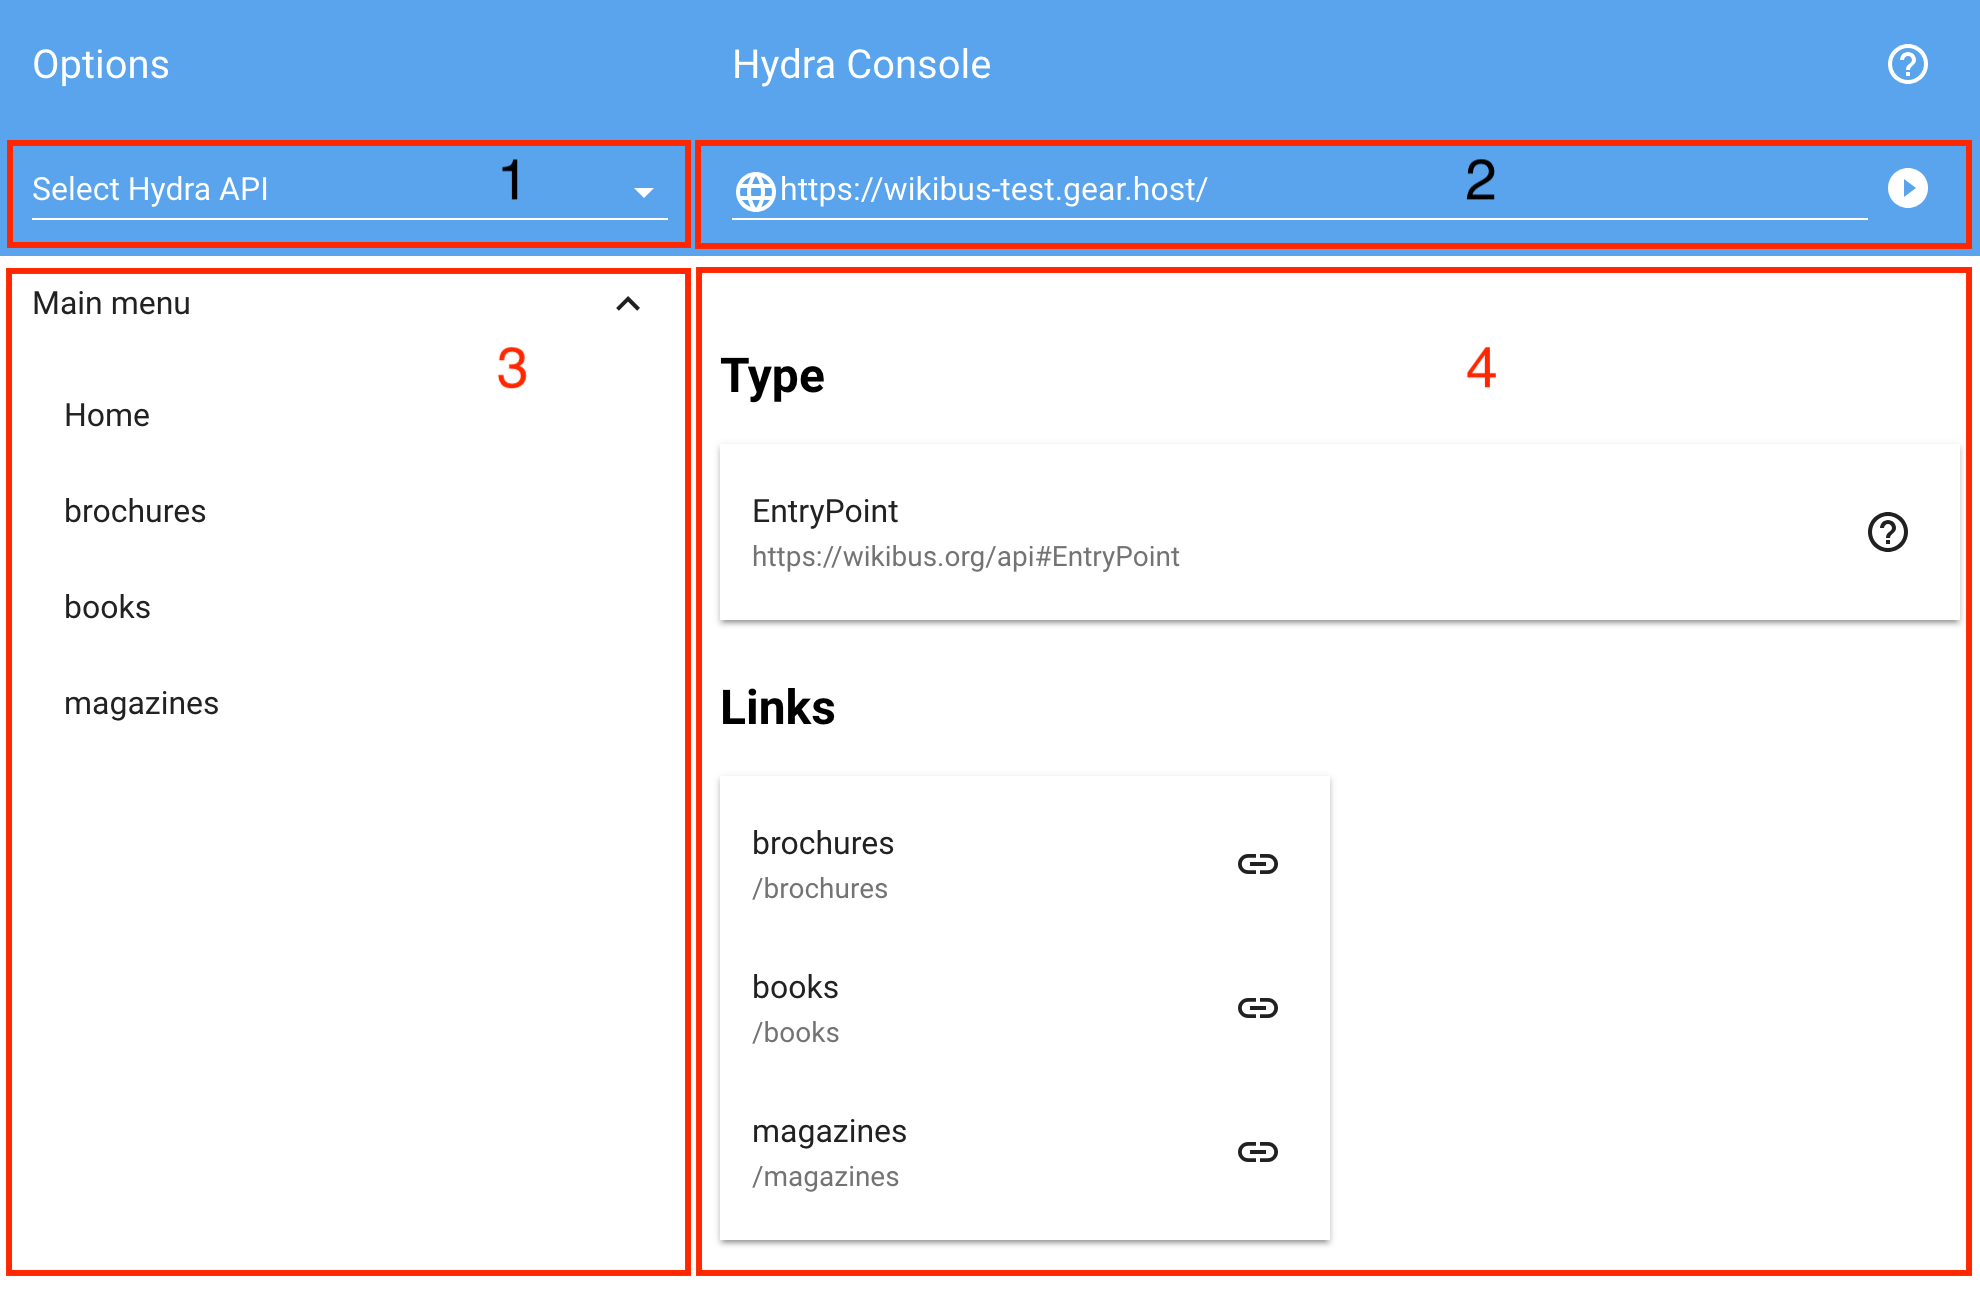
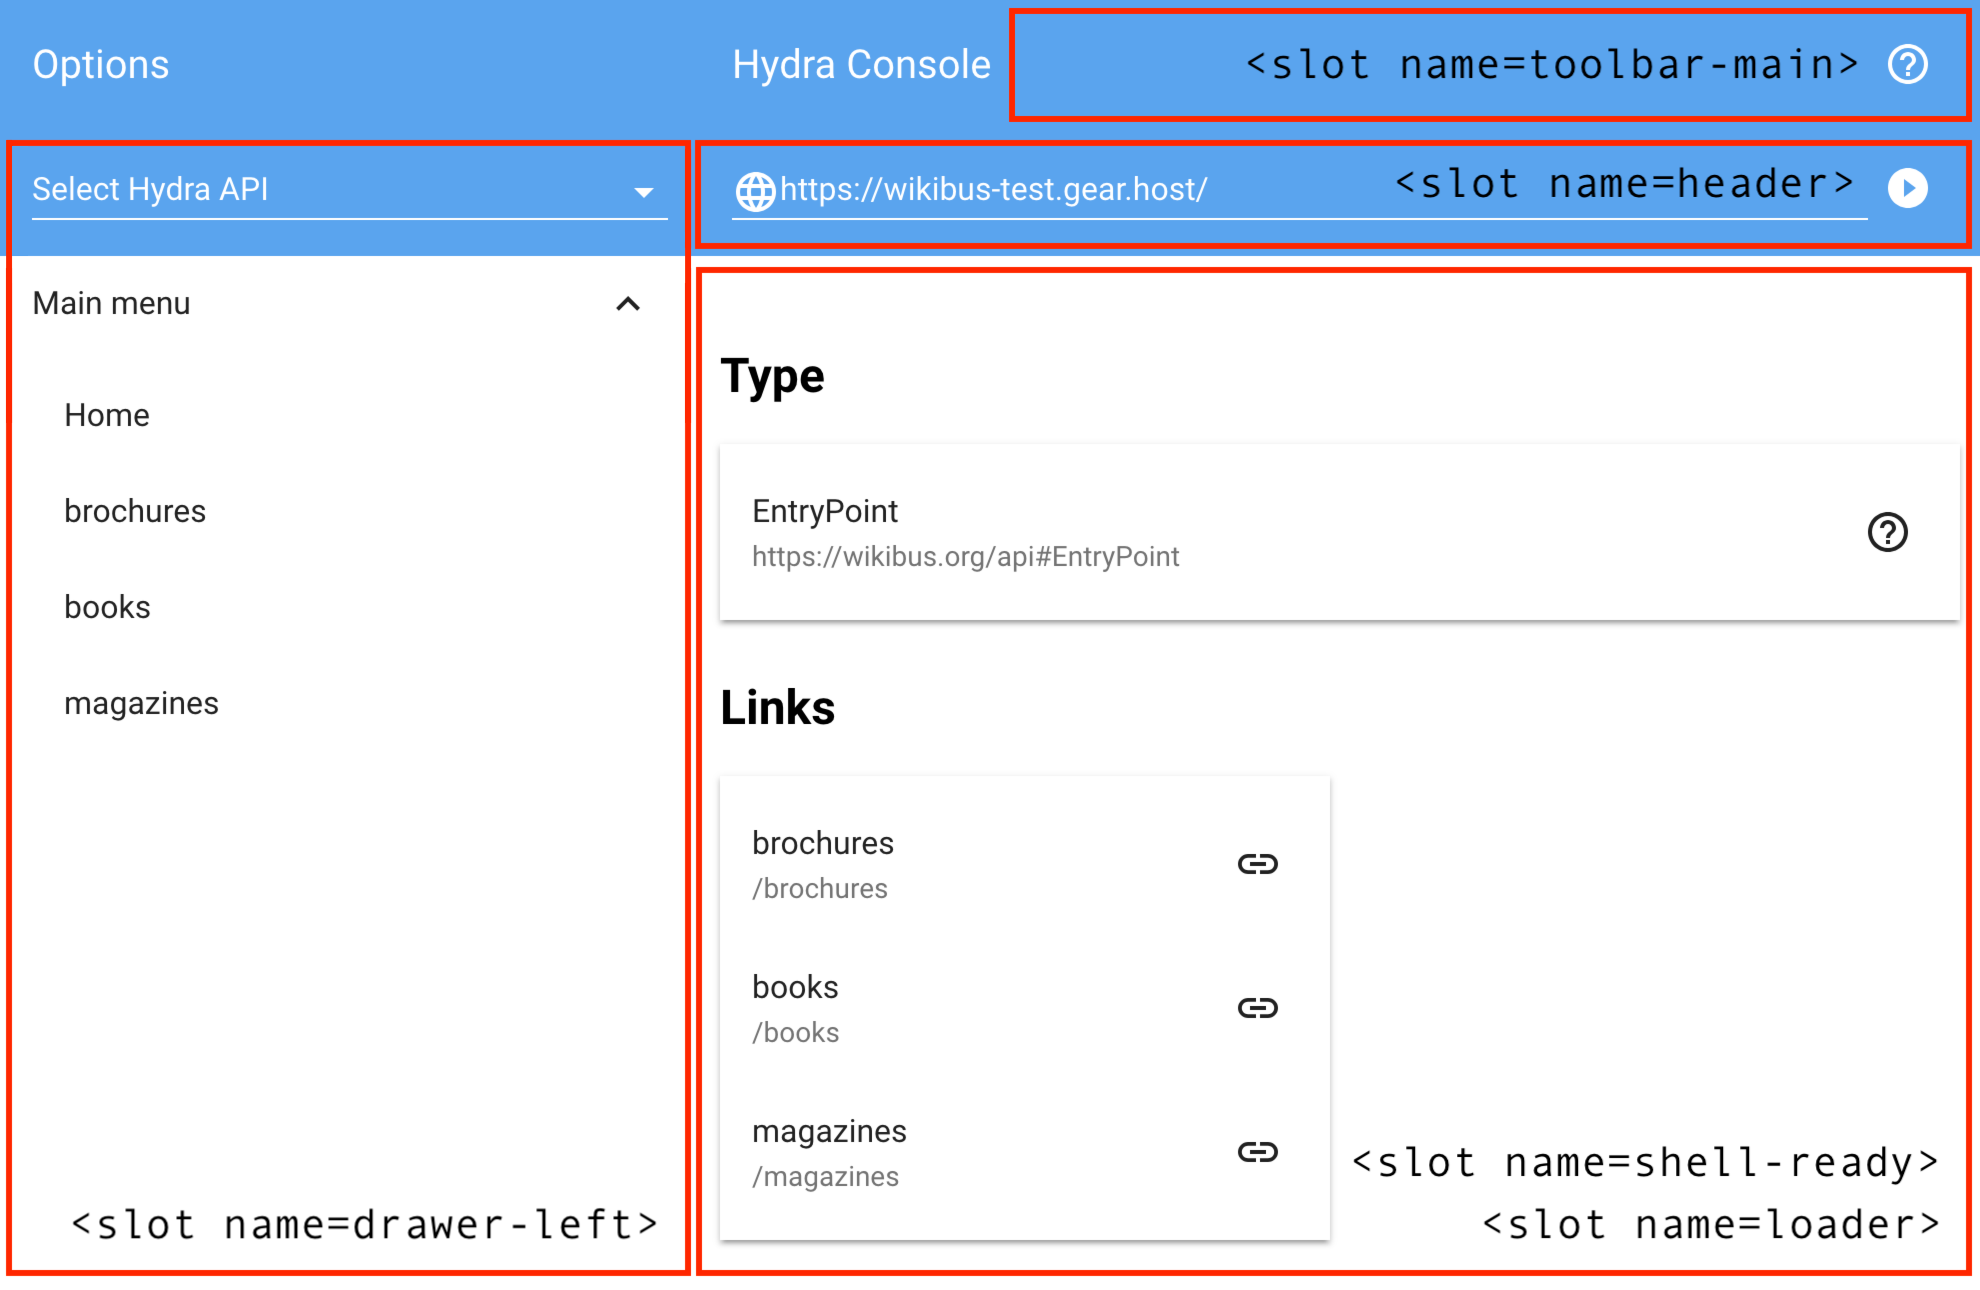
add readme

diff --git a/hydrofoil-paper-shell.ts b/hydrofoil-paper-shell.ts
@@ -69,7 +69,7 @@ export class HydrofoilPaperShell extends HydrofoilShell {
                 <div class="title">Options</div>
             </app-toolbar>
 
-            <slot name="toolbar-left"></slot>
+            <slot name="drawer-left"></slot>
         </app-drawer>
 
         <app-drawer align="end" slot="drawer" swipe-open id="rightDrawer">

diff --git a/readme.md b/readme.md
@@ -1,0 +1,43 @@
+# hydrofoil-paper-shell
+
+A reusable [material design][mat] application shell, implemented as a [Polymer][Polymer] element. It composes
+Polymer's `paper` elements .
+
+[Polymer]: https://polymer-library.polymer-project.org
+[mat]: https://material.io
+
+## Installation
+
+```
+yarn add @hydrofoil/hydrofoil-paper-shell
+```
+
+To bundle with webpack, dynamic imports must also be enabled by adding `@babel/plugin-syntax-dynamic-import`.
+
+## Usage
+
+The shell element itself is API-agnostic. It produces the app skeleton but does not load resources from the
+back-end. Please check the instructions of [hydrofoil-shell](https://github.com/hypermedia-app/hydrofoil-shell#using-the-element)
+
+### Extending
+
+Here's a live `hydrofoil-paper-shell`-based application in action
+
+
+There are a number of slots, as shown on the screenshots below, which can be used to extend the shell:
+
+1. `drawer-left`
+1. `header`
+1. `shell-ready`
+1. `loader`
+1. `toolbar-main`
+1. `drawer-right`
+
+![generic app](https://github.com/hypermedia-app/hydrofoil-paper-shell/raw/master/assets/paper-shell.png)
+![generic app](https://github.com/hypermedia-app/hydrofoil-paper-shell/raw/master/assets/drawer-right.png)
+
+To add multiple toolbar, use code like `<app-toolbar slot="drawer-left">`. Above this is how the "Select Hydra API" dropdown is added to the page.
+
+The slot `shell-ready` is only displayed initially, before any resource is loaded from the API.
+
+The slot `loader` is used inside a full-scree overlay, displayed while executing a server request.
